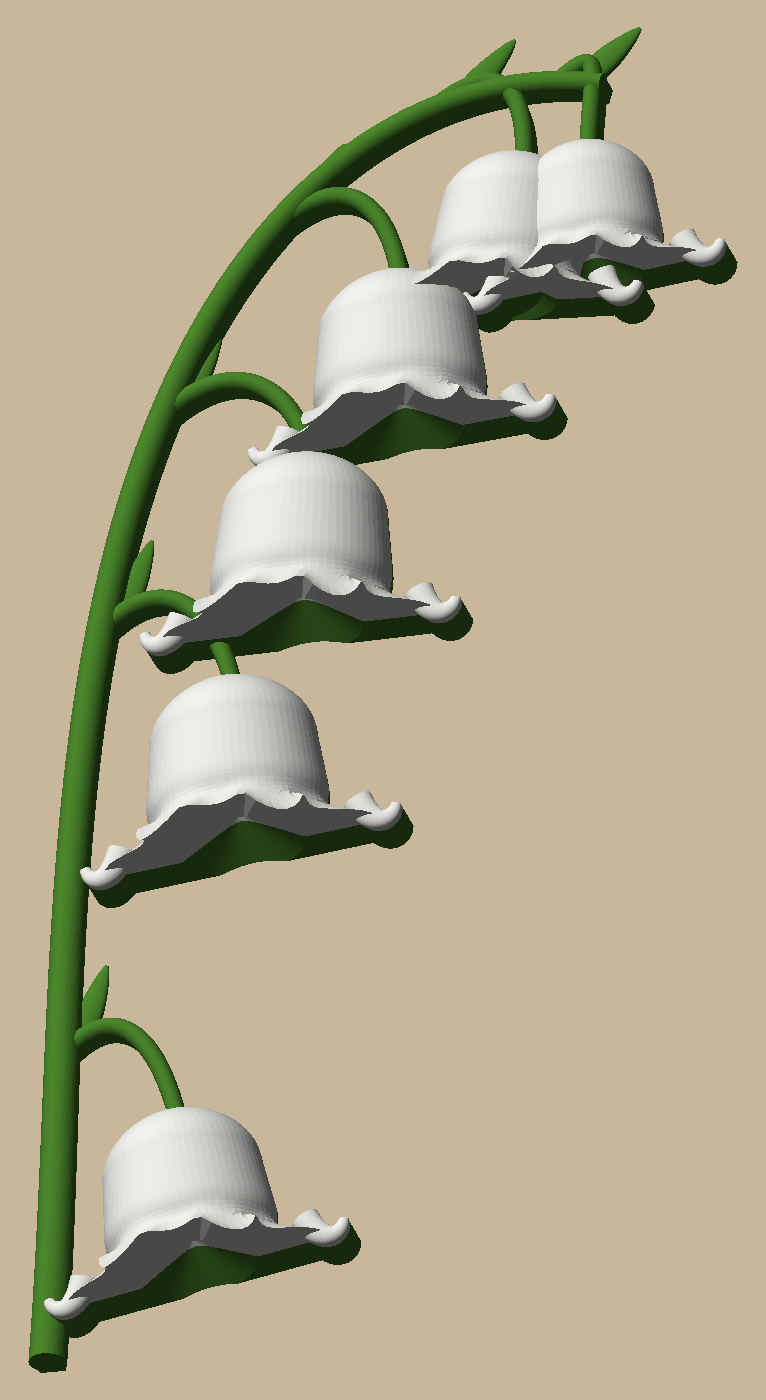
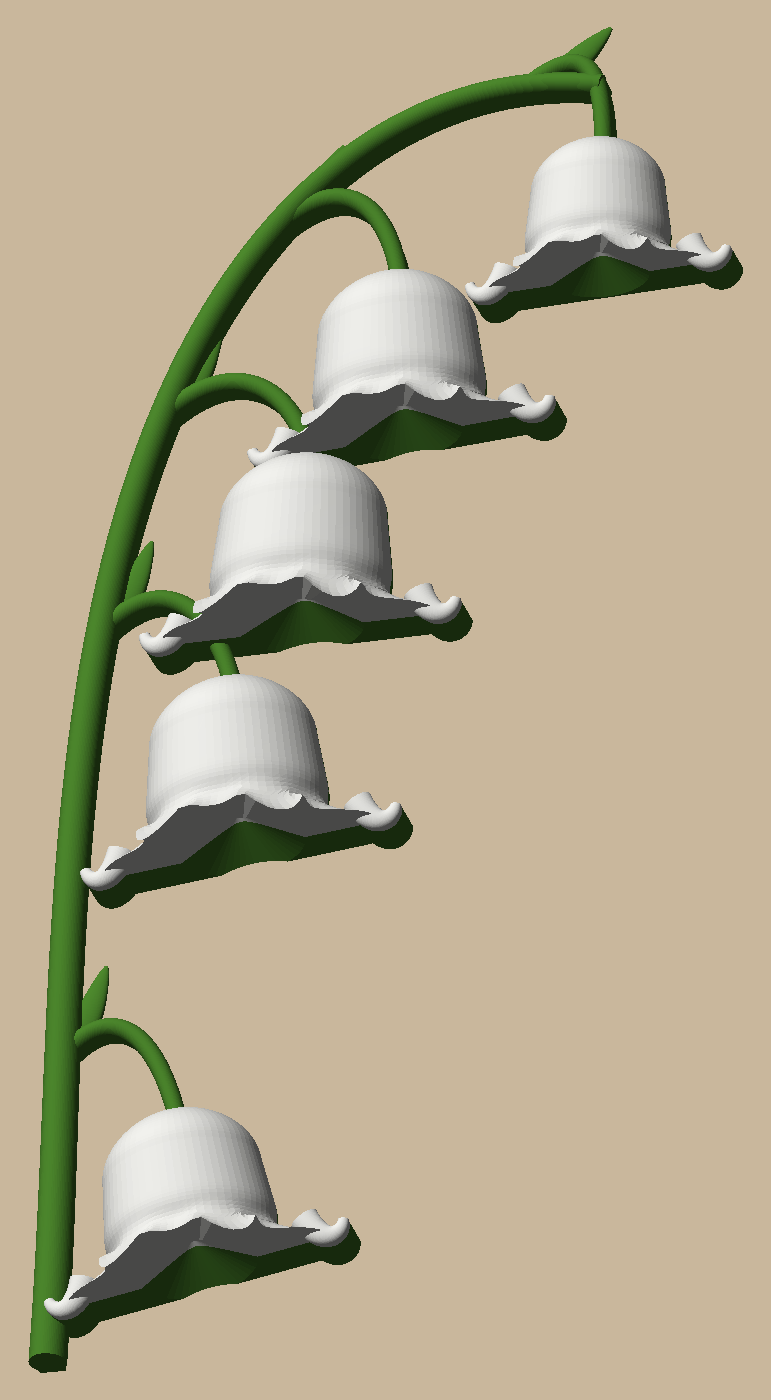
Lily of the valley: one small cup at the tip instead of two overlapping bells
The tip's two bells overlapped into an odd double cup. Five bells now, the last a single size-0.8 cup hanging
straight from near the arch's end, and a test that no two bells overlap. Re-sliced: 1 h 06 m, 21.6 g, one colour
change; hangs 0.2 degrees off plumb by the G-code.

diff --git a/examples/lily-of-the-valley/lily_of_the_valley/params.py b/examples/lily-of-the-valley/lily_of_the_valley/params.py
@@ -21,7 +21,7 @@ class Params:
     # the bells, foot first: (where on the stem 0..1, apex this far below it, and out to the right, size, hang deg
     # from straight down, + swings the mouth right)
     bells: tuple = ((0.16, 14.0, 16.0, 0.95, 8.0), (0.40, 13.0, 18.0, 1.0, 4.0), (0.55, 12.0, 20.0, 1.0, -2.0),
-                    (0.71, 12.0, 17.0, 0.95, 2.0), (0.86, 11.0, 12.0, 0.85, -6.0), (0.97, 12.0, 4.0, 0.8, 4.0))
+                    (0.71, 12.0, 17.0, 0.95, 2.0), (0.94, 12.0, 10.0, 0.8, 0.0))  # one small cup at the tip
     bell_r: float = 12.0  # body radius of a size-1 bell
     bell_len: float = 2.0  # apex to mouth, in bell radii
     bell_flat: float = 0.85  # out of the wall: the bell's depth / its width

diff --git a/examples/lily-of-the-valley/tests/test_flower.py b/examples/lily-of-the-valley/tests/test_flower.py
@@ -66,6 +66,14 @@ def test_from_the_front_the_bells_are_white_and_the_rest_green(body):
     assert off_bell.sum() > 0.25 * on_bell.sum()  # there is a green sprig to see
 
 
+def test_every_bell_is_a_single_cup_clear_of_the_others():
+    """Bells that overlap read as one odd double cup (the tip's two did): each hangs on its own."""
+    bells = [sprig.placed_bell(P, k) for k in range(len(P.bells))]
+    for i in range(len(bells)):
+        for j in range(i + 1, len(bells)):
+            assert (bells[i] & bells[j]).volume == 0, (i, j)
+
+
 def test_every_bell_hangs_from_a_pedicel_off_the_stem():
     stem = sprig.stem(P)
     for k in range(len(P.bells)):

diff --git a/examples/lily-of-the-valley/docs/specs/2026-10-26-lily-of-the-valley-design.md b/examples/lily-of-the-valley/docs/specs/2026-10-26-lily-of-the-valley-design.md
@@ -14,11 +14,11 @@ The options were A (the photo's sprig, no leaf), B (the same with a broad leaf b
 degrees toward you, 1 h 42, 41 g) and C (a stem arching across, seven bells in a row, a slim leaf; 1 h 19, 28 g).
 
 - **Stem:** a Bezier rising up the left and arching over to the right, radius 2.5 tapering to 1.4 mm.
-- **Six bells** hanging below it, side-on: each lies in the wall's plane, its apex at the pedicel and its mouth
+- **Five bells** hanging below it, side-on: each lies in the wall's plane, its apex at the pedicel and its mouth
   down. Along the axis: a rounded shoulder, straight-ish sides widening a little, a slight waist, a flared rim.
   The rim is scalloped into six lobes: the two at the sides curl back in the wall's plane (horns); the two facing
   you reach past the rim, so the bell's lower edge is scalloped from the front. A shallow cone hollows the mouth.
-  Bells are 12 mm radius at size 1, 24 mm long, 0.85 as deep as wide; sizes 0.8 to 1.0, smallest at the tip.
+  Bells are 12 mm radius at size 1, 24 mm long, 0.85 as deep as wide; sizes 0.8 to 1.0, smallest at the tip, each clear of the others.
 - **Pedicels** from the stem out and up, over and down into each bell's apex; a small pointed **bract** at each
   pedicel's foot.
 
@@ -39,7 +39,7 @@ each bell's shoulder, hidden.
 The keyhole hides under the third bell, the one over the centre of mass: the nail rests 6.6 mm down its axis from
 the apex, moved sideways to straight above the printed centre of mass, so the sprig hangs within a degree of plumb.
 A 6 mm slot, a 9.5 mm head, a 44-degree roof with 1.2 mm of wall all round, the mouth's hollow included. Nail:
-68.5 mm below the sprig's top, 39 mm in from its left edge; a 6-8 mm head about 2 mm off the wall.
+68.3 mm below the sprig's top, 37 mm in from its left edge; a 6-8 mm head about 2 mm off the wall.
 
 ## Build
 Meshes from the start (peony lesson: B-rep booleans give up on freeform bodies), one `cadkit.mesh` union, the
@@ -73,3 +73,8 @@ plate comes with an STL.
   - Eight horn tips start as small separate islands on the bed (about 5 mm2 each) up to 3 mm, then join their bells.
   - Bells 4 and 5 overlap into a double bell at the tip, and pedicels run under the next bell's lobes: as rendered.
   - Not checked: stringing between the bells above the seam (each layer travels between them).
+- 2026-10-27: One small cup at the tip. The user found the tip's two overlapping bells (sizes 0.85 and 0.8, 1309 mm3
+  shared) looked funky: they read as one odd double cup. Now five bells, the last a single size-0.8 cup hanging
+  straight down near the arch's end (0.94 along the stem, 10 mm out), and a test that no two bells overlap.
+  Re-sliced: 1 h 06 m, 21.6 g (green 11.8 g, white 9.8 g), one colour change, no supports; hangs 0.2 degrees off
+  plumb by the G-code. Nail 68.3 mm below the top, 37 mm in from the left.

diff --git a/examples/lily-of-the-valley/README.md b/examples/lily-of-the-valley/README.md
@@ -1,7 +1,7 @@
 # Lily of the valley wall flower
 
 An arching sprig of lily of the valley, 188 mm tall, to hang with the sunflower (`../sunflower-wall`), the rose
-(`../rose-wall`) and the peony (`../peony-wall`). Green PLA for the stem, pedicels and bracts, white for the six
+(`../rose-wall`) and the peony (`../peony-wall`). Green PLA for the stem, pedicels and bracts, white for the five
 bells, printed in one go flat-back on a Bambu A1 with **one colour change and no supports**.
 
 <img src="docs/images/front.png" width="32%" alt="lily of the valley, straight on"> <img src="docs/images/side.png" width="32%" alt="as it hangs, from the right"> <img src="docs/images/below.png" width="32%" alt="from below: the hollow mouths">
@@ -18,11 +18,11 @@ From the front you only see the round tops; the fills hide under them. Colour go
 ## Printing it
 
 `uv run python -m lily_of_the_valley.build` writes `out/plates/lily_of_the_valley.3mf`: a Bambu project with green
-PLA in AMS slot 1 and white in slot 2, supports off. Sliced: 1 h 11 m, 23.2 g (12.4 g green, 10.8 g white), one
+PLA in AMS slot 1 and white in slot 2, supports off. Sliced: 1 h 06 m, 21.6 g (11.8 g green, 9.8 g white), one
 colour change.
 
-Hang it on a nail or pan-head screw through the keyhole in the back (under the third bell): it goes 68.5 mm below
-the sprig's top and 39 mm in from its left edge. Use a 6-8 mm head on a shank under 4.5 mm, its head standing about
+Hang it on a nail or pan-head screw through the keyhole in the back (under the third bell): it goes 68.3 mm below
+the sprig's top and 37 mm in from its left edge. Use a 6-8 mm head on a shank under 4.5 mm, its head standing about
 2 mm off the wall: the lip that goes behind it is 1.6 mm thick, with 3.2 mm of room over it. A smaller head pulls
 out of the 4.6 mm slot. It hangs from its printed centre of mass (the thin green parts print solid, the bells mostly
 infill), within half a degree of upright.

diff --git a/CLAUDE.md b/CLAUDE.md
@@ -33,7 +33,7 @@
   `cadkit.mesh` (B-rep booleans gave up); a yellow stamen insert pushed in from the back.
 - `examples/lily-wall/`: a 180 mm lily (package `lily_wall`): six arched, recurved mesh tepals, white fading to
   purple by height through 40 dithered layers (21 swaps), tree supports in the loaded PLA.
-- `examples/lily-of-the-valley/`: a 188 mm arching sprig (package `lily_of_the_valley`): six white bells with
+- `examples/lily-of-the-valley/`: a 188 mm arching sprig (package `lily_of_the_valley`): five white bells with
   scalloped, curled rims on a green stem, green below 5 mm and white above (one swap), no supports: every part a
   tube of sections round on top with a hidden 46-degree fill under it (`shapes.py`), unioned with `cadkit.mesh`.
 
